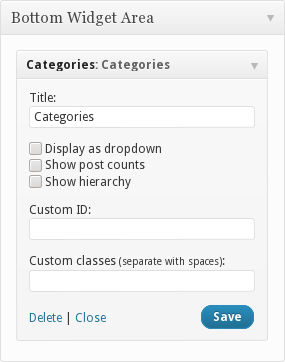
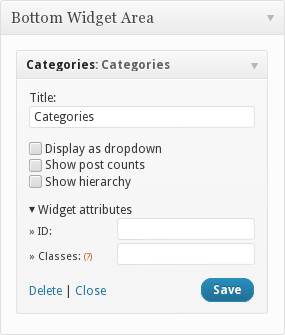
Widget attributes: Updated contextual help

diff --git a/kc-essentials-inc/widget_attr.php b/kc-essentials-inc/widget_attr.php
@@ -34,62 +34,56 @@ class kcEssentials_widget_attr {
 		$data = kcEssentials::get_data('settings', 'widget_attr');
 		$setting = kcEssentials_widgets::get_setting( $widget->id );
 		$customs = array(
-			'id'	=> array(
-				__('Custom ID:', 'kc-essentials'),
-				__('Custom ID:', 'kc-essentials')
-			),
-			'class'	=> array(
-				__('Custom classes:', 'kc-essentials'),
-				__('Custom classes <small>(separate with spaces)</small>:', 'kc-essentials')
-			)
+			'id'    => __('ID:', 'kc-essentials'),
+			'class' => __('Classes:', 'kc-essentials'),
 		); ?>
-<div class="kcwe">
-<?php
-	foreach ( $customs as $attr => $label ) {
-		$f_current = isset($setting["custom_{$attr}"]) ? $setting["custom_{$attr}"] : '';
-		$f_name    = "widget-{$widget->id_base}[{$widget->number}][custom_{$attr}]";
-		$f_id      = "widget-{$widget->id_base}-{$widget->number}-custom_{$attr}"; ?>
-	<p>
-		<?php if ( !isset($data[$attr]) || empty($data[$attr]) ) { ?>
-		<label for="<?php echo $f_id ?>"><?php echo $label[1] ?></label>
-		<input type="text" name="<?php echo $f_name ?>" id="<?php echo $f_id ?>" class="widefat" value="<?php esc_attr_e($f_current) ?>" />
-		<?php
-			}
-			else {
-				$f_opt = array();
-				foreach ( explode( ' ', $data[$attr]) as $o )
-					$f_opt[] = array('value' => $o, 'label' => $o);
-
-				if ( $attr == 'id' ) {
-					$f_attr = array(
-						'id'       => $f_id,
-						'name'     => $f_name,
-						'class' => 'widefat'
-					);
+<details>
+	<summary><?php _e('Widget attributes', 'kc-essentials') ?></summary>
+	<ul class="kcw-control-block">
+	<?php
+		foreach ( $customs as $attr => $label ) {
+			$f_current = isset($setting["custom_{$attr}"]) ? $setting["custom_{$attr}"] : '';
+			$f_name    = "widget-{$widget->id_base}[{$widget->number}][custom_{$attr}]";
+			$f_id      = "widget-{$widget->id_base}-{$widget->number}-custom_{$attr}"; ?>
+		<li>
+			<?php if ( !isset($data[$attr]) || empty($data[$attr]) ) { ?>
+			<label for="<?php echo $f_id ?>"><?php echo $label; if ( $attr == 'class' ) echo ' <small class="impo" title="'.__('Separate with spaces', 'kc-essentials').'">(?)</small>' ?></label>
+			<input type="text" name="<?php echo $f_name ?>" id="<?php echo $f_id ?>" value="<?php esc_attr_e($f_current) ?>" />
+			<?php
 				}
 				else {
-					$f_attr = array(
-						'id'       => $f_id,
-						'name'     => "{$f_name}[]",
-						'class'    => '',
-						'multiple' => 'multiple'
-					);
-					$f_current = explode( ' ', $f_current );
+					$f_opt = array();
+					foreach ( explode( ' ', $data[$attr]) as $o )
+						$f_opt[] = array('value' => $o, 'label' => $o);
+
+					if ( $attr == 'id' ) {
+						$f_attr = array(
+							'id'       => $f_id,
+							'name'     => $f_name
+						);
+					}
+					else {
+						$f_attr = array(
+							'id'       => $f_id,
+							'name'     => "{$f_name}[]",
+							'multiple' => 'multiple'
+						);
+						$f_current = explode( ' ', $f_current );
+					}
+			?>
+			<label for="<?php echo $f_id ?>"><?php echo $label ?></label>
+			<?php
+				echo kcForm::field( array(
+					'type'    => 'select',
+					'attr'    => $f_attr,
+					'options' => $f_opt,
+					'current' => $f_current
+				));
 				}
-		?>
-		<label for="<?php echo $f_id ?>"><?php echo $label[0] ?></label>
-		<?php
-			echo kcForm::field( array(
-				'type'    => 'select',
-				'attr'    => $f_attr,
-				'options' => $f_opt,
-				'current' => $f_current
-			));
-			}
-	}
-?>
-	</p>
-</div>
+			} ?>
+		</li>
+	</ul>
+</details>
 	<?php $return = null;
 	}
 

diff --git a/kc-essentials-inc/_options.php b/kc-essentials-inc/_options.php
@@ -45,7 +45,7 @@ class kcEssentials_options {
 							'widget_widgets' => __('Additional widgets', 'kc-essentials'),
 							'widget_areas'   => __('Register additional sidebars/widget areas', 'kc-essentials'),
 							'widget_logic'   => sprintf( __('Conditional widgets, <em>a.k.a.</em> widget logic %s', 'kc-essentials'), '<a title="'.__('What&#39;s this?', 'kc-essentials').'" href="#tab-link-widget_logic" class="kc-help-trigger">?</a>' ),
-							'widget_attr'    => sprintf( __('Custom widget ID &amp; classes %s', 'kc-essentials'), '<a title="'.__('What&#39;s this?', 'kc-essentials').'" href="#tab-link-widget_attr" class="kc-help-trigger">?</a>' )
+							'widget_attr'    => sprintf( __('Custom widget attributes %s', 'kc-essentials'), '<a title="'.__('What&#39;s this?', 'kc-essentials').'" href="#tab-link-widget_attr" class="kc-help-trigger">?</a>' )
 						)
 					),
 					array(
@@ -350,7 +350,7 @@ class kcEssentials_options {
 				),
 				array(
 					'id'      => 'widget_attr',
-					'title'   => __('Custom widget ID &amp; classes', 'kc-essentials'),
+					'title'   => __('Custom widget attributes', 'kc-essentials'),
 					'content' => '
 						<p>'.__('This is what you&#39;ll get if you enable this:', 'kc-essentials').'<br /><br />
 						<img src="'.$paths['url'].'/kc-essentials-inc/assets/custom-widget-attr-0.png" alt=""/><br /><br />
